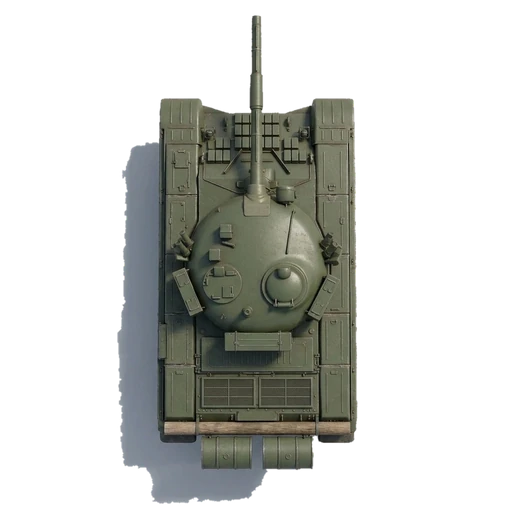
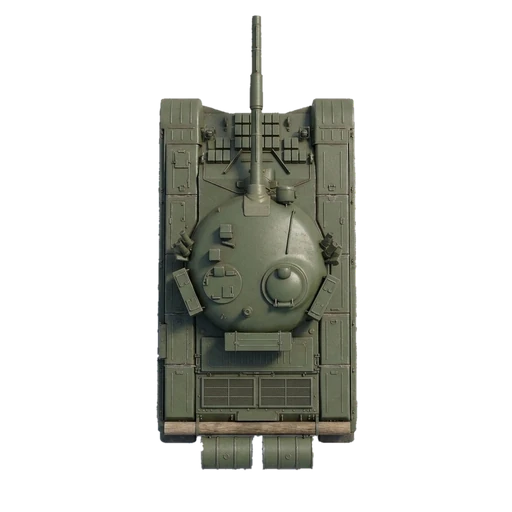
prep-art: clean top-down cut-outs without the shadow plate (the map draws its own shadow); tank top-downs re-made from the existing sources, PICBOX updated
Claude-Session: https://claude.ai/code/session_01KVGBc2Umi6eiR6tSvLXXtJ

Changed region(s): [[0.2188, 0.2812, 0.5312, 1.0]]

diff --git a/index.html b/index.html
@@ -7341,7 +7341,7 @@ const PICBOX = {'u-infantry':[0.84, 0.94], 'u-special-forces':[0.95, 0.77], 'i-i
   'u-transport-heli':[0.64, 0.94], 'u-drone':[0.94, 0.86], 'u-corvette':[0.22, 0.94], 'u-destroyer':[0.17, 0.94], 'u-submarine':[0.19, 0.94], 'u-carrier':[0.36, 0.95],
   'u-naval-patrol':[0.94, 0.94], 'u-awacs':[0.95, 0.94], 'u-air-superiority':[0.78, 0.94], 'u-uav-recon':[0.99, 0.81], 'u-uav-armed':[0.99, 0.82], 'u-swarm-drone':[0.95, 0.86], 'u-strike-drone':[0.85, 0.95],
   'u-anti-drone':[0.48, 0.94], 'u-cargo-ship':[0.26, 0.96], 'u-cruise-missile':[0.52, 0.95], 'u-ballistic-missile':[0.28, 0.97], 'u-icbm':[0.12, 0.97]};   // (measured by tools/prep-art.py: HF section)
-Object.assign(PICBOX, {'ul-tank-china-1-top': [0.49, 0.95], 'ul-tank-china-2-top': [0.43, 0.88], 'ul-tank-china-3-top': [0.48, 0.95], 'ul-tank-east-1-top': [0.47, 0.96], 'ul-tank-east-2-top': [0.51, 0.97], 'ul-tank-east-3-top': [0.43, 0.9], 'ul-tank-europe-1-top': [0.42, 0.9], 'ul-tank-europe-2-top': [0.42, 0.94], 'ul-tank-europe-3-top': [0.49, 0.97], 'ul-tank-export-1-top': [0.48, 0.95], 'ul-tank-export-2-top': [0.47, 0.94], 'ul-tank-export-3-top': [0.48, 0.89], 'ul-tank-nato-1-top': [0.46, 0.91], 'ul-tank-nato-2-top': [0.48, 0.95], 'ul-tank-nato-3-top': [0.45, 0.96]});   // the 15 tank looks (tools/prep-art.py ul)
+Object.assign(PICBOX, {'ul-tank-china-1-top': [0.41, 0.86], 'ul-tank-china-2-top': [0.36, 0.84], 'ul-tank-china-3-top': [0.4, 0.88], 'ul-tank-east-1-top': [0.39, 0.89], 'ul-tank-east-2-top': [0.44, 0.9], 'ul-tank-east-3-top': [0.43, 0.9], 'ul-tank-europe-1-top': [0.34, 0.82], 'ul-tank-europe-2-top': [0.34, 0.85], 'ul-tank-europe-3-top': [0.39, 0.9], 'ul-tank-export-1-top': [0.41, 0.87], 'ul-tank-export-2-top': [0.41, 0.87], 'ul-tank-export-3-top': [0.41, 0.88], 'ul-tank-nato-1-top': [0.37, 0.85], 'ul-tank-nato-2-top': [0.42, 0.89], 'ul-tank-nato-3-top': [0.39, 0.92]});   // the 15 tank looks (tools/prep-art.py ul)
 const PICBB = new WeakMap();
 // [w, h, cx, cy] of a picture's opaque part (shares of its size): the table for the supplied files, measured once for a code-drawn stand-in
 function picBox(src){ let b = PICBB.get(src); if (b) return b;

diff --git a/tools/prep-art.py b/tools/prep-art.py
@@ -630,13 +630,15 @@ if HF_SEEN: print('PICBOX:', {'u-' + n: hf_box('u-' + n + '.webp') for n in HF_S
 # -scene: the card scene resized to 768x512 (3:2), NOT cut out (the blue monitor tint and scanlines are drawn in code)
 # The cut-out: the plain grey floor (a quadratic surface fitted to the border), its lighting gradient and the smooth neutral soft shadow touching it are flooded from
 # the border; whatever is left (the largest parts, holes filled) is the unit; edges feathered a little.
-def ul_cut(im, sd=70, sch=12, grad=9):
+def ul_cut(im, sd=70, sch=12, grad=9, noshadow=False):
     from scipy import ndimage as ndi
     a = np.asarray(im.convert('RGB')).astype(np.float32); h, w, _ = a.shape
     m = np.zeros((h, w), bool); b = max(6, int(0.03*min(h, w))); m[:b] = m[-b:] = True; m[:, :b] = m[:, -b:] = True
     bg = fit_bg(a, m); d = np.abs(a - bg).max(-1); ch = a.max(-1) - a.min(-1); bch = bg.max(-1) - bg.min(-1)
     g = ndi.gaussian_gradient_magnitude(a.mean(-1), 1.2)
     cand = (d <= 16) | ((d < sd) & (np.abs(ch - bch) < sch) & (g < grad))
+    if noshadow:   # top-downs: the drop shadow too (the map draws its own). It is smooth and bluer than the floor (the paint of no unit is blue)
+        cand |= ((a[..., 2] - a[..., 0] - (bg[..., 2] - bg[..., 0])) > 13) & (g < grad + 3) & (a.mean(-1) < bg.mean(-1) + 4)
     lab, n = ndi.label(cand); border = np.unique(np.concatenate([lab[0], lab[-1], lab[:, 0], lab[:, -1]]))
     solid = ndi.binary_opening(~np.isin(lab, border[border > 0]), iterations=1)
     lab, n = ndi.label(solid); sizes = ndi.sum(solid, lab, range(1, n + 1))
@@ -653,14 +655,24 @@ def ul_prep():
         im = Image.open(f)
         if kind == 'scene': out = im.convert('RGB').resize((768, 512), Image.LANCZOS); out.save(os.path.join(OUT, stem + '-scene.webp'), 'WEBP', quality=88, method=6)
         else:
-            c = ul_cut(im)
+            c = ul_cut(im, noshadow=(kind == 'top'))
             if kind == 'side': c = c.crop(c.getchannel('A').point(lambda v: 255 if v > 20 else 0).getbbox()); c.thumbnail((512, 512), Image.LANCZOS)
             else:
                 c = c.resize((512, 512), Image.LANCZOS); bb = c.getchannel('A').point(lambda v: 255 if v > 20 else 0).getbbox()
                 boxes[stem + '-top'] = [round((bb[2] - bb[0])/512, 2), round((bb[3] - bb[1])/512, 2)]
             c.save(os.path.join(OUT, stem + '-' + kind + '.webp'), 'WEBP', quality=90, method=6)
         print('unit look', stem, kind)
-    if boxes: print('PICBOX:', boxes)
+    if boxes:
+        print('PICBOX:', boxes)
+        idx = os.path.join(os.path.dirname(os.path.dirname(os.path.abspath(OUT))), 'index.html')   # the opaque boxes of the top-downs go into the page's PICBOX line (merged with the ones already there)
+        if os.path.exists(idx):
+            import re, json
+            t = open(idx, encoding='utf-8').read(); m = re.search(r"^Object\.assign\(PICBOX, \{('ul-[^\n]*)\}\);", t, re.M)
+            old = {k: v for k, v in re.findall(r"'(ul-[a-z0-9-]+)': (\[[0-9., ]+\])", m.group(1))} if m else {}
+            old = {k: json.loads(v) for k, v in old.items()}; old.update(boxes)
+            line = 'Object.assign(PICBOX, {' + ', '.join(f"'{k}': [{v[0]}, {v[1]}]" for k, v in sorted(old.items())) + '});'
+            t = t.replace(m.group(0), line) if m else t
+            if m: open(idx, 'w', encoding='utf-8').write(t); print('index.html: PICBOX line updated,', len(old), 'tops')
 if want('ul') and 'ul' in only: ul_prep()
 
 # tell the game which promised V3 pictures now exist (it draws code stand-ins for the rest and never requests a missing file)
